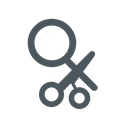
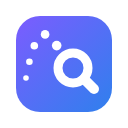
Rename to QueryHop and release v0.3
- Rename SnipSearch to QueryHop (manifest, context menu, options page,
  export file, README). Internal menu IDs and storage key are unchanged,
  so existing engines are kept.
- Support {{query}} anywhere in the URL; engines saved by older versions
  keep appending the query.
- Report storage save errors (e.g. storage.sync quota) and reload the list.
- Build context menus once on install (no duplicate id errors).
- Import: allow re-importing the same file, reject duplicate/reserved IDs.
- Fix stale drag index and edit mode after deleting the edited engine.
- Open results next to the current tab, show the selection in the menu
  title, use Wikipedia's search page for new installs.
- Update Ko-fi link to ko-fi.com/togohi.
- New icon in 16/32/48/128 px (SVG master in store/), new store
  screenshots; remove the 1024 px icon and old screenshots.
- Ignore docs/.

diff --git a/options.js b/options.js
@@ -35,7 +35,7 @@ sortBtn.onclick = () => {
         ? a.name.localeCompare(b.name)
         : b.name.localeCompare(a.name)
     );
-    chrome.storage.sync.set({ searchEngines: engines }, renderList);
+    saveEngines();
 };
 
 function renderList() {
@@ -55,13 +55,15 @@ function renderList() {
         // Drag events
         tr.ondragstart = () => draggedIndex = index;
         tr.ondragover = (e) => e.preventDefault();
+        tr.ondragend = () => draggedIndex = null;
         tr.ondrop = () => {
             if (draggedIndex === null || draggedIndex === index) return;
             const draggedItem = engines[draggedIndex];
             engines.splice(draggedIndex, 1);
             engines.splice(index, 0, draggedItem);
+            draggedIndex = null;
             sortOrder = null;
-            chrome.storage.sync.set({ searchEngines: engines }, renderList);
+            saveEngines();
         };
 
         const handleTd = document.createElement("td");
@@ -85,7 +87,7 @@ function renderList() {
         editBtn.innerHTML = `<i class="fa fa-edit"></i>`;
         editBtn.onclick = () => {
             nameInput.value = engine.name;
-            urlInput.value = engine.url + "{{query}}";
+            urlInput.value = engine.url.includes("{{query}}") ? engine.url : engine.url + "{{query}}";
             editMode = true;
             editId = engine.id;
             addForm.querySelector("button[type=submit]").innerHTML = `<i class="fa fa-check"></i> Update`;
@@ -102,7 +104,8 @@ function renderList() {
         delBtn.onclick = () => {
             if (confirm(`Are you sure you want to delete "${engine.name}"?`)) {
                 engines = engines.filter(e => e.id !== engine.id);
-                chrome.storage.sync.set({ searchEngines: engines }, renderList);
+                if (engine.id === editId) resetForm();
+                saveEngines();
             }
         };
         actionTd.appendChild(delBtn);
@@ -119,6 +122,19 @@ function loadEngines() {
     });
 }
 
+function saveEngines(onSaved) {
+    chrome.storage.sync.set({ searchEngines: engines }, () => {
+        // e.g. storage.sync quota exceeded: restore what is actually stored
+        if (chrome.runtime.lastError) {
+            alert(`Could not save changes: ${chrome.runtime.lastError.message}`);
+            loadEngines();
+            return;
+        }
+        if (onSaved) onSaved();
+        renderList();
+    });
+}
+
 addForm.onsubmit = (e) => {
     e.preventDefault();
     const name = nameInput.value.trim();
@@ -129,27 +145,24 @@ addForm.onsubmit = (e) => {
         return;
     }
 
-    const cleanUrl = url.replace("{{query}}", "");
-
     if (editMode && editId) {
         const engine = engines.find(e => e.id === editId);
         if (engine) {
             engine.name = name;
-            engine.url = cleanUrl;
+            engine.url = url;
         }
         resetForm();
     } else {
         engines.push({
             id: crypto.randomUUID(),
             name,
-            url: cleanUrl
+            url
         });
     }
 
-    chrome.storage.sync.set({ searchEngines: engines }, () => {
+    saveEngines(() => {
         nameInput.value = "";
         urlInput.value = "";
-        renderList();
     });
 };
 
@@ -158,7 +171,7 @@ exportBtn.onclick = () => {
     const url = URL.createObjectURL(blob);
     const a = document.createElement("a");
     a.href = url;
-    a.download = "snipsearch_engines.json";
+    a.download = "queryhop_engines.json";
     a.click();
     URL.revokeObjectURL(url);
 };
@@ -176,20 +189,23 @@ importInput.onchange = (e) => {
         if (!Array.isArray(imported)) throw new Error("Invalid format");
         const valid = imported.every(e =>
             typeof e.id === "string" &&
+            !e.id.startsWith("snipsearch_") && // reserved for built-in menu items
             typeof e.name === "string" &&
             typeof e.url === "string"
         );
+        const uniqueIds = new Set(imported.map(e => e.id)).size === imported.length;
 
-        if (!valid) throw new Error("Invalid structure");
+        if (!valid || !uniqueIds) throw new Error("Invalid structure");
 
-        chrome.storage.sync.set({ searchEngines: imported }, () => {
-            loadEngines(); // Carga desde storage, asegura sincronización
-        });
+        engines = imported;
+        saveEngines();
         } catch (err) {
         alert("Import failed: invalid file format or data.");
         }
     };
     reader.readAsText(file);
+    // Allow importing the same file again
+    importInput.value = "";
 };
 
 loadEngines();

diff --git a/background.js b/background.js
@@ -1,15 +1,17 @@
 chrome.runtime.onInstalled.addListener(() => {
     const defaultEngines = [
-        { id: "wikipedia", name: "Wikipedia", url: "https://en.wikipedia.org/wiki/" },
-        { id: "youtube", name: "YouTube", url: "https://www.youtube.com/results?search_query=" },
-        { id: "google", name: "Google", url: "https://www.google.com/search?q=" }
+        { id: "wikipedia", name: "Wikipedia", url: "https://en.wikipedia.org/w/index.php?search={{query}}" },
+        { id: "youtube", name: "YouTube", url: "https://www.youtube.com/results?search_query={{query}}" },
+        { id: "google", name: "Google", url: "https://www.google.com/search?q={{query}}" }
     ];
 
     chrome.storage.sync.get("searchEngines", (data) => {
-        const engines = data.searchEngines || defaultEngines;
-        chrome.storage.sync.set({ searchEngines: engines }, () => {
-            createContextMenus(engines);
-        });
+        if (data.searchEngines) {
+            createContextMenus(data.searchEngines);
+        } else {
+            // storage.onChanged builds the menus
+            chrome.storage.sync.set({ searchEngines: defaultEngines });
+        }
     });
 });
 
@@ -17,7 +19,7 @@ function createContextMenus(engines) {
     chrome.contextMenus.removeAll(() => {
         chrome.contextMenus.create({
             id: "snipsearch_root",
-            title: "SnipSearch",
+            title: "QueryHop: “%s”",
             contexts: ["selection"]
         });
 
@@ -46,17 +48,24 @@ function createContextMenus(engines) {
     });
 }
 
-chrome.contextMenus.onClicked.addListener((info) => {
+chrome.contextMenus.onClicked.addListener((info, tab) => {
     if (info.menuItemId === "snipsearch_settings") {
         chrome.runtime.openOptionsPage();
         return;
     }
 
     chrome.storage.sync.get("searchEngines", (data) => {
-        const engine = data.searchEngines.find(e => e.id === info.menuItemId);
+        const engine = (data.searchEngines || []).find(e => e.id === info.menuItemId);
         if (engine && info.selectionText) {
             const query = encodeURIComponent(info.selectionText);
-            chrome.tabs.create({ url: engine.url + query });
+            // Engines saved before v0.3 have no placeholder: append the query
+            const url = engine.url.includes("{{query}}")
+                ? engine.url.replaceAll("{{query}}", query)
+                : engine.url + query;
+            // Open next to the current tab when the click comes from a regular tab
+            chrome.tabs.create(tab && tab.id >= 0
+                ? { url, windowId: tab.windowId, index: tab.index + 1, openerTabId: tab.id }
+                : { url });
         }
     });
 });

diff --git a/options.html b/options.html
@@ -2,14 +2,14 @@
 <html lang="en">
 <head>
     <meta charset="UTF-8" />
-    <title>SnipSearch Options</title>
+    <title>QueryHop Options</title>
     <meta name="viewport" content="width=device-width, initial-scale=1">
     <link href="https://cdn.jsdelivr.net/npm/bootstrap@5.3.3/dist/css/bootstrap.min.css" rel="stylesheet">
     <link href="https://cdnjs.cloudflare.com/ajax/libs/font-awesome/6.5.0/css/all.min.css" rel="stylesheet">
 </head>
 <body class="bg-light">
     <div class="container py-4">
-        <h1 class="mb-4">SnipSearch – Search Engines</h1>
+        <h1 class="mb-4">QueryHop – Search Engines</h1>
 
         <!-- Add Engine Inline Form -->
         <form id="add-form" class="row g-2 align-items-center mb-3">
@@ -62,8 +62,8 @@
 
         <!-- Footer Support Section -->
         <div class="mt-5 text-center border-top pt-4">
-            <p class="mb-2">Support <strong>SnipSearch</strong> ❤</p>
-            <a href='https://ko-fi.com/Q5Q61FK1CC' target='_blank'><img height='36' style='border:0px;height:36px;' src='https://storage.ko-fi.com/cdn/kofi6.png?v=6' border='0' alt='Buy Me a Coffee at ko-fi.com' /></a>
+            <p class="mb-2">Support <strong>QueryHop</strong> ❤</p>
+            <a href='https://ko-fi.com/togohi' target='_blank'><img height='36' style='border:0px;height:36px;' src='https://storage.ko-fi.com/cdn/kofi6.png?v=6' border='0' alt='Buy Me a Coffee at ko-fi.com' /></a>
         </div>
     </div>
     <script src="options.js"></script>

diff --git a/CHANGELOG.md b/CHANGELOG.md
@@ -1,5 +1,24 @@
 # Changelog
 
+## [0.3] - 2026-10-31
+
+### Changed
+- **Renamed to QueryHop** — The extension, context menu, options page and export file (`queryhop_engines.json`) now use the new name. Existing engines and settings are kept.
+- **New icon** — Redesigned icon, shipped in 16, 32, 48 and 128 px instead of a single 1024 px image.
+- **Context menu shows the selection** — The root item now reads `QueryHop: "<selected text>"`.
+- **Tabs open next to the current one** — Search results open right after the tab where the search started.
+- **Wikipedia default** — New installs use Wikipedia's search page, which jumps to the article on an exact match.
+
+### Fixed
+- **`{{query}}` anywhere in the URL** — The placeholder was always moved to the end of the URL, breaking templates like `...?text={{query}}&op=translate`. Engines saved by older versions keep working.
+- **Silent save failures** — Errors when saving (e.g. the `storage.sync` size limit) are now reported and the list is reloaded from storage.
+- **Duplicate menu items on install** — Menus were built twice on first install, logging `duplicate id` errors.
+- **Import** — The same file can be imported twice in a row; files with duplicate or reserved IDs are rejected.
+- **Drag & drop** — Dropping text or files onto a row no longer moves a previously dragged engine.
+- **Edit mode** — Deleting the engine being edited now resets the form.
+
+---
+
 ## [0.2] - 2026-03-19
 
 ### Added

diff --git a/README.md b/README.md
@@ -1,6 +1,6 @@
-# SnipSearch
+# QueryHop
 
-SnipSearch is a Chrome extension that lets you search selected text quickly across your preferred websites.
+QueryHop (formerly SnipSearch) is a Chrome extension that lets you search selected text quickly across your preferred websites.
 
 ## Features
 - Context menu to search the selected text with the engines you choose.
@@ -16,8 +16,13 @@ SnipSearch is a Chrome extension that lets you search selected text quickly acro
 
 ## Usage
 1. Select text on any webpage.
-2. Right-click and choose **SnipSearch**.
+2. Right-click and choose **QueryHop**.
 3. Pick the engine you want to use for the search.
 
 ## Contributing
 Contributions are welcome via pull requests.
+
+## Support
+If you find QueryHop useful, you can support its development on Ko-fi:
+
+[![Buy Me a Coffee at ko-fi.com](https://storage.ko-fi.com/cdn/kofi6.png?v=6)](https://ko-fi.com/togohi)
